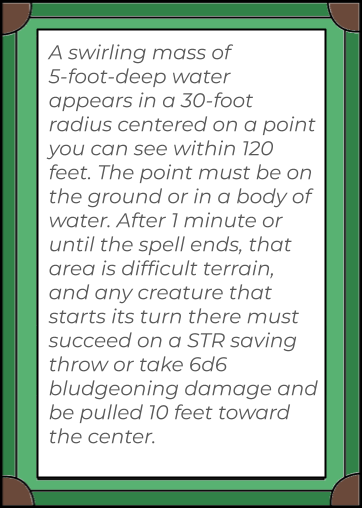
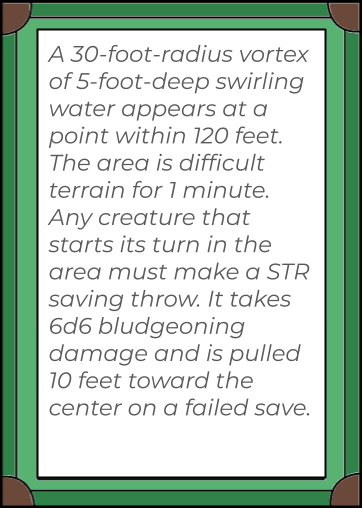
spell desciption edits 2, balance changes, new cards

Changed region(s): [[0.1215, 0.0886, 0.8812, 0.8858]]

diff --git a/simulator/card-functions.js b/simulator/card-functions.js
@@ -4,12 +4,18 @@ let cardFunctions = {
     "Bane": () => {},
     "Bless": () => {},
     "Blindness/Deafness": () => {},
-    "Burning Hands": () => {},
+    "Burning Hands": () => {
+        let dmg = rollMultiDice(3, 6);
+        alert("Burning Hands deals " + dmg + " fire damage against failed saves, or half as much against successful ones!");
+    },
     "Charm Person": () => {},
     "Chromatic Orb": () => {},
     "Cure Wounds": () => {},
     "Detect Magic": () => {},
-    "Earth Tremor": () => {},
+    "Earth Tremor": () => {
+        let dmg = rollMultiDice(1, 6);
+        alert("Earth Tremor deals " + dmg + " bludgeoning damage and knocks prone against failed saves!");
+    },
     "Earthbind": () => {},
     "Feather Fall": () => {},
     "Grease": () => {},
@@ -19,28 +25,50 @@ let cardFunctions = {
     "Mage Armor": () => {},
     "Shield of Faith": () => {},
     "Thorn Whip": () => {},
-    "Thunderwave": () => {},
+    "Thunderwave": () => {
+        let dmg = rollMultiDice(2, 8);
+        alert("Thunderwave deals " + dmg + " thunder damage and pushes targets back 10 feet against failed saves, or half as much damage against successful ones!");
+    },
     "Web": () => {},
     // SPELL - SR
     "Banishment": () => {},
     "Black Tentacles": () => {},
-    "Cone of Cold": () => {},
-    "Fireball": () => {},
+    "Cone of Cold": () => {
+        let dmg = rollMultiDice(8, 8);
+        alert("Cone of Cold deals " + dmg + " cold damage against failed saves, or half as much against successful ones!");
+    },
+    "Fireball": () => {
+        let dmg = rollMultiDice(8, 6);
+        alert("Fireball deals " + dmg + " fire damage against failed saves, or half as much against successful ones!");
+    },
     "Immolation": () => {},
     "Insect Plague": () => {},
-    "Lightning Bolt": () => {},
+    "Lightning Bolt": () => {
+        let dmg = rollMultiDice(8, 6);
+        alert("Lightning Bolt deals " + dmg + " lightning damage against failed saves, or half as much against successful ones!");
+    },
     "Maelstrom": () => {},
     "Misty Step": () => {},
-    "Soul Drain": () => {},
+    "Soul Drain": () => {
+        let dmg = rollMultiDice(4, 8);
+        alert("Soul Drain deals " + dmg + " necrotic damage and you heal " + dmg / 2 + " HP against failed saves, or half as much damage against successful ones!");
+    },
     "Soul Shackles": () => {},
     "Speak with Dead": () => {},
     "Stoneskin": () => {},
     // SPELL - SSR
-    "Chain Lightning": () => {},
+    "Chain Lightning": () => {
+        let dmg = rollMultiDice(10, 8);
+        alert("Chain Lightning deals " + dmg + " lightning damage against failed saves, or half as much against successful ones!");
+    },
     "Invulnerability": () => {},
-    "Meteor Swarm": () => {},
+    "Meteor Swarm": () => {
+        let fireDmg = rollMultiDice(6, 6);
+        let bludDmg = rollMultiDice(6, 6);
+        alert("Meteor Swarm deals " + fireDmg + " fire damage and " + bludDmg + " bludgeoning damage against failed saves, or half as much against successful ones!");
+    },
     "Power Word Kill": () => {},
-    "Prismatic Spray": () => {},
+    "Prismatic Spray": () => { prismaticSpray(); },
     "Regenerate": () => { regenerate(); },
     // REACTION - SR
     "Necromancer's Gravecall": () => { necromancersGravecall(); },
@@ -186,6 +214,45 @@ function addEffectToMonster(card, effect) {
             effectAnim(card, effect.type);
             return;
         }
+    }
+}
+
+function prismaticSpray() {
+    let targets = prompt("How many targets?");
+    for (let t in targets) {
+        let roll = rollDice(8);
+        setTimeout(() => {
+            if (roll < 6) {
+                let dmgTypes = ["fire", "acid", "lightning", "poison", "cold"]
+                let dmg = rollMultiDice(6, 6);
+                alert("Prismatic Spray deals " + dmg + + " " + dmgTypes[roll - 1] + " damage to target " + t + " on a failed save, or half as much on a successful one!");
+            } else if (roll === 6) {
+                alert("Prismatic Spray has restrained target " + t + "! It must then make a CON saving throw at the end of each of its turns. If it successfully saves three times, the spell ends. If it fails its save three times, it permanently turns to stone and is subjected to the petrified condition. The successes and failures don't need to be consecutive; keep track of both until the target collects three of a kind.");
+            } else if (roll === 7) {
+                alert("Prismatic Spray has blinded target " + t + "! It must then make a WIS saving throw at the start of your next turn. A successful save ends the blindness. If it fails that save, the creature is transported to another plane of existence of the GM's choosing and is no longer blinded.");
+            } else {
+                let newRolls = [rollDiceNoAnim(), rollDiceNoAnim(), rollDiceNoAnim(), rollDiceNoAnim(), rollDiceNoAnim(), rollDiceNoAnim(), rollDiceNoAnim(), rollDiceNoAnim()];
+                alert("Target " + t + " is hit by 2 rays!");
+                let rayNum = 1;
+                for (r in newRolls) {
+                    if (newRolls[r] !== 8) {
+                        if (roll < 6) {
+                            let dmgTypes = ["fire", "acid", "lightning", "poison", "cold"]
+                            let dmg = rollMultiDice(6, 6);
+                            alert("Ray " + rayNum + " deals " + dmg + + " " + dmgTypes[roll - 1] + " damage to target " + t + " on a failed save, or half as much on a successful one!");
+                        } else if (roll === 6) {
+                            alert("Ray " + rayNum + " has restrained target " + t + "! It must then make a CON saving throw at the end of each of its turns. If it successfully saves three times, the spell ends. If it fails its save three times, it permanently turns to stone and is subjected to the petrified condition. The successes and failures don't need to be consecutive; keep track of both until the target collects three of a kind.");
+                        } else if (roll === 7) {
+                            alert("Ray " + rayNum + " has blinded target " + t + "! It must then make a WIS saving throw at the start of your next turn. A successful save ends the blindness. If it fails that save, the creature is transported to another plane of existence of the GM's choosing and is no longer blinded.");
+                        }
+                        rayNum++;
+                    }
+                    if (rayNum >= 3) {
+                        break;
+                    }
+                }
+            }
+        }, 3000);
     }
 }
 

diff --git a/simulator/monster-actions.js b/simulator/monster-actions.js
@@ -770,6 +770,24 @@ let monsterActions = {
         }
     },
     // SSR RARITY
+    "Aboleth": {
+        "Tentacle Lash": {
+            "text": "Melee Weapon Attack: +10 to hit, reach 10 ft., one target. Hit: 3d6 + 6 bludgeoning damage.",
+            "function": () => { attack(10, 3, 6, 6, "Aboleth", "Tentacle Lash", "bludgeoning"); }
+        },
+        "Enslave": {
+            "text": "Choose one enemy creature within 30 feet of this monster. It must make a DC 17 WIS save or be Charmed for 1 minute.",
+            "function": () => { alert("Choose one enemy creature within 30 feet of this monster. It must make a DC 17 WIS save or be Charmed for 1 minute."); }
+        },
+        "Psychic Drain (1/S)": {
+            "once": true,
+            "text": "Choose one Charmed enemy creature within 60 feet of this monster. The target takes 3d6 psychic damage, and this monster heals HP equal to the damage dealt.",
+            "function": () => {
+                let dmg = rollMultiDice(3, 6);
+                alert(`Aboleth's Psychic Drain deals ${dmg} psychic damage, and Aboleth heals ${Math.floor(dmg / 2)} HP!`);
+            }
+        }
+    },
     "Adult Black Dragon": {
         "Multiattack (1/S)": {
             "once": true,
@@ -843,9 +861,9 @@ let monsterActions = {
     },
     "Lich": {
         "Soulfreezing Touch": {
-            "text": "Melee Spell Attack: +12 to hit, reach 5 ft., one creature. Hit: 3d10 necrotic damage. The target must succeed on a DC 16 CON saving throw or be paralyzed for 1 minute.",
+            "text": "Melee Spell Attack: +12 to hit, reach 5 ft., one creature. Hit: 2d10 necrotic damage. The target must succeed on a DC 16 CON saving throw or be paralyzed for 1 minute.",
             "function": () => {
-                attack(12, 3, 10, 0, "Lich", "Soulfreezing Touch", "necrotic").then((hit) => {
+                attack(12, 2, 10, 0, "Lich", "Soulfreezing Touch", "necrotic").then((hit) => {
                     if (hit) {
                         alert("The target must succeed on a DC 16 CON saving throw or be paralyzed for 1 minute.");
                     }

diff --git a/simulator/script.js b/simulator/script.js
@@ -972,6 +972,7 @@ function rollDice(sides) {
 
     setTimeout(() => {
         dice.textContent = randomRoll;
+        console.log("Rolled", randomRoll);
         
         setTimeout(() => {
             diceContainer.style.visibility = "hidden";
@@ -982,7 +983,9 @@ function rollDice(sides) {
 }
 
 function rollDiceNoAnim(sides) {
-    return Math.floor(Math.random() * sides) + 1;
+    let roll = Math.floor(Math.random() * sides) + 1;
+    console.log("Rolled", roll);
+    return roll;
 }
 
 function rollMultiDice(amount, sides) {
